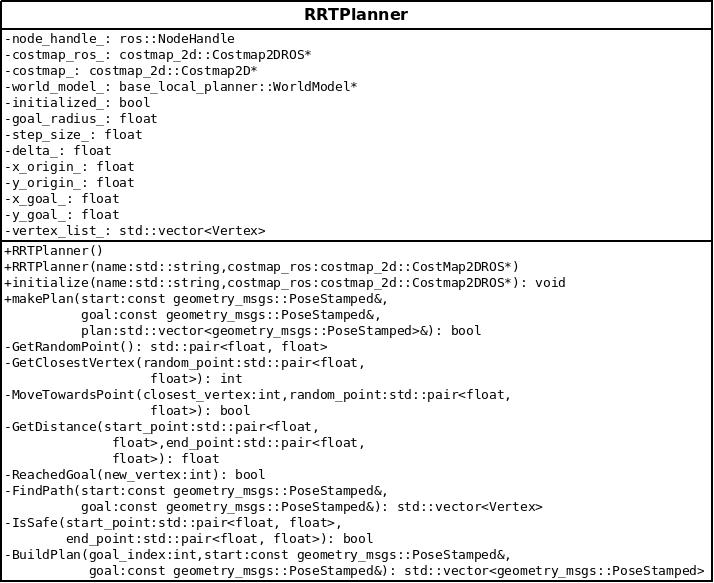
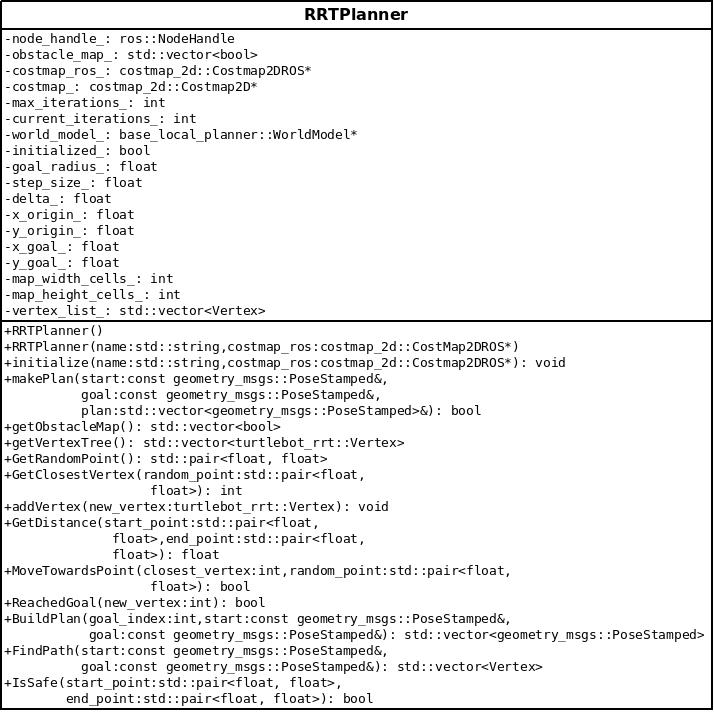
TR-45 Fixing cpplint errors and cleaning up code. Last modifications to UML diagrams.

diff --git a/src/turtlebot_rrt.cc b/src/turtlebot_rrt.cc
@@ -41,7 +41,6 @@
 PLUGINLIB_EXPORT_CLASS(turtlebot_rrt::RRTPlanner, nav_core::BaseGlobalPlanner)
 
 namespace turtlebot_rrt {
-
   RRTPlanner::RRTPlanner()
     : costmap_ros_(nullptr), initialized_(false) { }
 
@@ -63,8 +62,6 @@ namespace turtlebot_rrt {
       node_handle_ = node;
       world_model_ = new base_local_planner::CostmapModel(*costmap_);
 
-      map_width_ = costmap_->getSizeInMetersX();
-      map_height_ = costmap_->getSizeInMetersY();
       node_handle_.getParam("/move_base/step_size_", step_size_);
       node_handle_.getParam("/move_base/delta_", delta_);
       node_handle_.getParam("/move_base/goal_radius_", goal_radius_);
@@ -78,7 +75,6 @@ namespace turtlebot_rrt {
       map_width_cells_ = costmap_-> getSizeInCellsX();
       map_height_cells_ = costmap_-> getSizeInCellsY();
 
-
       for (unsigned int iy = 0; iy < map_height_cells_; iy++) {
         for (unsigned int ix = 0; ix < map_width_cells_; ix++) {
           unsigned char cost = static_cast<int>(costmap_->getCost(ix, iy));
@@ -89,17 +85,6 @@ namespace turtlebot_rrt {
         }
       }
 
-      //debug
-/*      for (unsigned int iy = 0; iy < map_height_cells_; iy++) {
-        for (unsigned int ix = 0; ix < map_width_cells_; ix++) {
-          if (obstacle_map_.at(iy * map_height_cells_ + ix))
-              std::cout << "0";
-          else
-            std::cout << "1";
-        }
-        std::cout << "" << std::endl;
-      }
-*/
       // Display info message
       ROS_INFO("RRT planner initialized successfully.");
       initialized_ = true;
@@ -118,7 +103,6 @@ namespace turtlebot_rrt {
       return false;
     }
 
-    // Print some debugging info
     ROS_DEBUG("Start: %.2f, %.2f", start.pose.position.x,
               start.pose.position.y);
     ROS_DEBUG("Goal: %.2f, %.2f", goal.pose.position.x,
@@ -149,10 +133,14 @@ namespace turtlebot_rrt {
                 goal.header.frame_id.c_str());
       return false;
     }
-    // Have the RRTPlanner calculate the path
+
+    // Have the RRTPlanner calculate the path. Returns the index of the node
+    // that reaches the goal
     ROS_DEBUG("Going into FindPath");
     int goal_index = RRTPlanner::FindPath(start, goal);
 
+    // Rebuild the plan from the goal_index to the start using the
+    // desired plan message format
     ROS_DEBUG("Going into BuildPlan");
     plan = RRTPlanner::BuildPlan(goal_index, start, goal);
 
@@ -170,8 +158,10 @@ namespace turtlebot_rrt {
     std::pair<float, float> random_point;
     std::random_device rd;
     std::mt19937 gen(rd());
-    std::uniform_real_distribution<> x(-map_width_, map_width_);
-    std::uniform_real_distribution<> y(-map_height_, map_height_);
+    float map_width = costmap_->getSizeInMetersX();
+    float map_height = costmap_->getSizeInMetersY();
+    std::uniform_real_distribution<> x(-map_width, map_width);
+    std::uniform_real_distribution<> y(-map_height, map_height);
 
     random_point.first = x(gen);
     random_point.second = y(gen);
@@ -179,12 +169,13 @@ namespace turtlebot_rrt {
     return random_point;
   }
 
-  int RRTPlanner::FindPath(
-    const geometry_msgs::PoseStamped& start,
-    const geometry_msgs::PoseStamped& goal) {
+  int RRTPlanner::FindPath(const geometry_msgs::PoseStamped& start,
+                           const geometry_msgs::PoseStamped& goal) {
     bool done = false;
     int goal_index = -1;
     current_iterations_ = 0;
+
+    // Run until we either find the goal or reach the max iterations
     while (!done && current_iterations_ < max_iterations_) {
       ROS_DEBUG("Finding the path.");
 
@@ -195,13 +186,16 @@ namespace turtlebot_rrt {
 
       // find the closest known vertex to that point
       int closest_vertex = RRTPlanner::GetClosestVertex(random_point);
-      ROS_INFO("Closest point %.5f, %.5f, index: %d.", vertex_list_.at(closest_vertex).get_location().first,
-               vertex_list_.at(closest_vertex).get_location().second, vertex_list_.at(closest_vertex).get_index());
+      ROS_DEBUG("Closest point %.5f, %.5f, index: %d.",
+                vertex_list_.at(closest_vertex).get_location().first,
+                vertex_list_.at(closest_vertex).get_location().second,
+                vertex_list_.at(closest_vertex).get_index());
 
       // try to move from the closest known vertex towards the random point
       if (RRTPlanner::MoveTowardsPoint(closest_vertex, random_point)) {
         ROS_DEBUG("Moved, closest vertex: %d", closest_vertex);
 
+        // If successful increase our iterations
         current_iterations_++;
 
         // check if we've reached our goal
@@ -217,12 +211,10 @@ namespace turtlebot_rrt {
       if (current_iterations_ == max_iterations_)
         ROS_INFO("Max iterations reached, no plan found.");
     }
-
     return goal_index;
   }
 
   int RRTPlanner::GetClosestVertex(std::pair<float, float> random_point) {
-    // Set our closest Vertex index to our root, since we know that it exists
     int closest = -1;
 
     // closest_distance will keep track of the closest distance we find
@@ -257,10 +249,9 @@ namespace turtlebot_rrt {
     float x2 = end_point.first;
     float y2 = end_point.second;
 
-
-
     // euclidean distance
     float distance = sqrt(pow((x1 - x2), 2) + pow((y1 - y2), 2));
+
     ROS_DEBUG("Distance: %.5f", distance);
     return distance;
   }
@@ -273,8 +264,11 @@ namespace turtlebot_rrt {
     float x_random = random_point.first;
     float y_random = random_point.second;
 
+    // get the angle between the random point and our closest point (in rads)
     float theta = atan2(y_random - y_closest, x_random - x_closest);
 
+    // proposed new point step_size_ from our closest vertex towards
+    // the random point
     float new_x = x_closest + step_size_ * cos(theta);
     float new_y = y_closest + step_size_ * sin(theta);
 
@@ -287,9 +281,9 @@ namespace turtlebot_rrt {
       // If safe, add new Vertex to the back of vertex_list_
       turtlebot_rrt::Vertex new_vertex(new_x, new_y, vertex_list_.size(),
                                        closest_vertex);
-      ROS_INFO("Added new vertex at: %.5f, %.5f, index: %d",
+      ROS_DEBUG("Added new vertex at: %.5f, %.5f, index: %d",
                new_x, new_y, new_vertex.get_index());
-      vertex_list_.push_back(new_vertex);
+      addVertex(new_vertex);
 
       // Return true, that we moved towards the proposed point
       return true;
@@ -301,19 +295,21 @@ namespace turtlebot_rrt {
   bool RRTPlanner::IsSafe(std::pair<float, float> start_point,
                            std::pair<float, float> end_point) {
     unsigned int map_x, map_y;
-    
-    // first check to make sure the end point is safe
+
+    // first check to make sure the end point is safe. Saves us processing
+    // time if somebody wants to jump into the middle of an obstacle
     costmap_->worldToMap(end_point.first, end_point.second, map_x, map_y);
-    /*if (obstacle_map_.at(map_y * map_height_cells_ + map_x))
-        return false;*/
+    if (!obstacle_map_.at(map_y * map_height_cells_ + map_x))
+        return false;
 
     // check the path at intervals of delta for collision
     float theta = atan2(end_point.second - start_point.second,
                         end_point.first - start_point.first);
     float current_x = start_point.first;
     float current_y = start_point.second;
-    
-    ROS_DEBUG("Testing proposed point %.5f, %.5f.", end_point.first, end_point.second);
+
+    ROS_DEBUG("Testing proposed point %.5f, %.5f.", end_point.first,
+                                                    end_point.second);
 
     while (GetDistance(std::pair<float, float>(current_x, current_y),
                        end_point) > delta_) {
@@ -334,8 +330,8 @@ namespace turtlebot_rrt {
   bool RRTPlanner::ReachedGoal(int new_vertex) {
     ROS_DEBUG("In ReachedGoal, vertex index: %d.", new_vertex);
 
+    // save our goal and current location as pairs
     std::pair<float, float> goal(x_goal_, y_goal_);
-
     std::pair<float, float> current_location;
     current_location.first =
       vertex_list_.at(new_vertex).get_location().first;
@@ -402,8 +398,12 @@ namespace turtlebot_rrt {
       plan.push_back(goal);
       unsigned int map_x, map_y;
       for (geometry_msgs::PoseStamped p : plan) {
-        costmap_->worldToMap(p.pose.position.x, p.pose.position.y, map_x, map_y);
-        ROS_INFO("x: %.2f (%d), y: %.2f (%d)", p.pose.position.x, map_x, p.pose.position.y, map_y);
+        costmap_->worldToMap(p.pose.position.x, p.pose.position.y,
+                             map_x, map_y);
+        ROS_INFO("x: %.2f (%d), y: %.2f (%d)", p.pose.position.x,
+                                               map_x,
+                                               p.pose.position.y,
+                                               map_y);
       }
       return plan;
   }

diff --git a/include/turtlebot_rrt/turtlebot_rrt.h b/include/turtlebot_rrt/turtlebot_rrt.h
@@ -99,14 +99,12 @@ class RRTPlanner : public nav_core::BaseGlobalPlanner {
                    std::vector<geometry_msgs::PoseStamped>& plan);
 
     /**
-    * @brief builds the obstacle map from the costmap data
-    * @param map_height height of the map in cells
-    * @param map_width width of the map in cells
-    * @param costmap the costmap
+    * @brief returns the obstacle map
+    * @return std::vector<bool> Unsafe cells are false, safe cells are true
     */
-    std::vector<bool> buildObstacleMap(unsigned int map_height,
-                                       unsigned int map_width,
-                                       costmap_2d::Costmap2D* costmap);
+    std::vector<bool> getObstacleMap() {
+      return obstacle_map_;
+    }
 
     /**
     * @brief returns the rrt vertex tree
@@ -119,7 +117,7 @@ class RRTPlanner : public nav_core::BaseGlobalPlanner {
      * @brief Gets a random point in the map space
      * @return returns an x,y pair
      */
-     std::pair<float, float> GetRandomPoint(float map_width, float map_height);
+     std::pair<float, float> GetRandomPoint();
 
      /**
      * @brief Gets the closest vertex to the given point
@@ -127,14 +125,15 @@ class RRTPlanner : public nav_core::BaseGlobalPlanner {
      * @param vertex_list the rrt vertex tree
      * @return the index of the closest vertex to the given point
      */
-     int GetClosestVertex(std::pair<float, float> random_point,
-                          std::vector<turtlebot_rrt::Vertex> vertex_list);
+     int GetClosestVertex(std::pair<float, float> random_point);
 
     /**
     * @brief adds a new vertex to the rrt vertex tree
     * @param new_vertex the new vertex to be added
     */
-    void addVertex(turtlebot_rrt::Vertex new_vertex);
+    void addVertex(turtlebot_rrt::Vertex new_vertex) {
+      vertex_list_.push_back(new_vertex);
+    }
 
      /**
      * @brief Euclidean distance between two points
@@ -156,17 +155,14 @@ class RRTPlanner : public nav_core::BaseGlobalPlanner {
      * @return true if a move was made, false if blocked by obstacle
      */
      bool MoveTowardsPoint(int closest_vertex,
-                           std::pair<float, float> random_point,
-                           std::vector<turtlebot_rrt::Vertex> vertex_list);
+                           std::pair<float, float> random_point);
 
      /**
      * @brief Is vertex within goal_radius_ of the goal
      * @param the vertex to be checked
      * @return true if within goal_radius_
      */
-     bool ReachedGoal(int new_vertex,
-                      std::vector<turtlebot_rrt::Vertex> vertex_list,
-                      std::pair<float, float> goal);
+     bool ReachedGoal(int new_vertex);
 
      /**
      * @brief builds the plan from vertices and returns in PoseStamped
@@ -196,19 +192,13 @@ class RRTPlanner : public nav_core::BaseGlobalPlanner {
      * @return true if path between points does not intersect obstacles
      */
      bool IsSafe(std::pair<float, float> start_point,
-                 std::pair<float, float> end_point,
-                 std::vector<bool> obstacle_map);
+                 std::pair<float, float> end_point);
 
  private:
      /**
      * @brief ROS node handle
      */
      ros::NodeHandle node_handle_;
-
-     /**
-     * @brief publishes the RRT structure
-     */
-     ros::Publisher pub_tree_;
 
      /**
      * @brief obstacles
@@ -221,6 +211,11 @@ class RRTPlanner : public nav_core::BaseGlobalPlanner {
      costmap_2d::Costmap2DROS* costmap_ros_;
 
      /**
+     * @brief The ROS wrapper for the costmap the controller will use
+     */
+     costmap_2d::Costmap2D* costmap_;
+
+     /**
      * @brief the max number of iterations to try and find a path
      */
      int max_iterations_;
@@ -229,11 +224,6 @@ class RRTPlanner : public nav_core::BaseGlobalPlanner {
      * @brief the current number of iterations
      */
      int current_iterations_;
-
-     /**
-     * @brief The ROS wrapper for the costmap the controller will use
-     */
-     costmap_2d::Costmap2D* costmap_;
 
      /**
      * @brief World model associated to the costmap
@@ -279,16 +269,6 @@ class RRTPlanner : public nav_core::BaseGlobalPlanner {
      * @brief y coordinate of goal
      */
      float y_goal_;
-
-     /**
-     * @brief Width of the 2D map
-     */
-     int map_width_;
-
-     /**
-     * @brief Height of the 2D map
-     */
-     int map_height_;
 
      /**
      * @brief width of 2d map in cells
